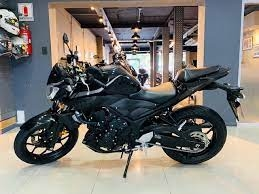
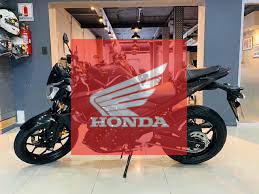
debug2

Changed region(s): [[0.2471, 0.1856, 0.7413, 0.8041]]

diff --git a/controllers/muro.js b/controllers/muro.js
@@ -95,13 +95,17 @@ exports.publicar = async (req, res) => {
     } else return "Privado";
   };
 
-  if (req.body.imagenmarca != "") {
-    let options = { dstPath: `${req.file.path}` };
-    watermark.addWatermark(
-      req.file.path,
-      `public${req.body.imagenmarca}`,
-      options
-    );
+  try {
+    if (req.body.imagenmarca != "") {
+      let options = { dstPath: `${req.file.path}` };
+      watermark.addWatermark(
+        req.file.path,
+        `public${req.body.imagenmarca}`,
+        options
+      );
+    }
+  } catch (error) {
+    console.log(error);
   }
 
   let ruta = req.file.path.split("public")[1];

diff --git a/public/javascripts/murojs.js b/public/javascripts/murojs.js
@@ -85,6 +85,7 @@ $("#etiqueta1").keyup(function () {
 $("#etiqueta2").keyup(function () {
   if ($("#etiqueta2").val().length > 0) {
     $("#etiqueta3").removeAttr("disabled");
+    $("#etiqueta1").attr("disabled", "disabled");
   } else {
     $("#etiqueta3").attr("disabled", "disabled");
     $("#etiqueta1").removeAttr("disabled");
